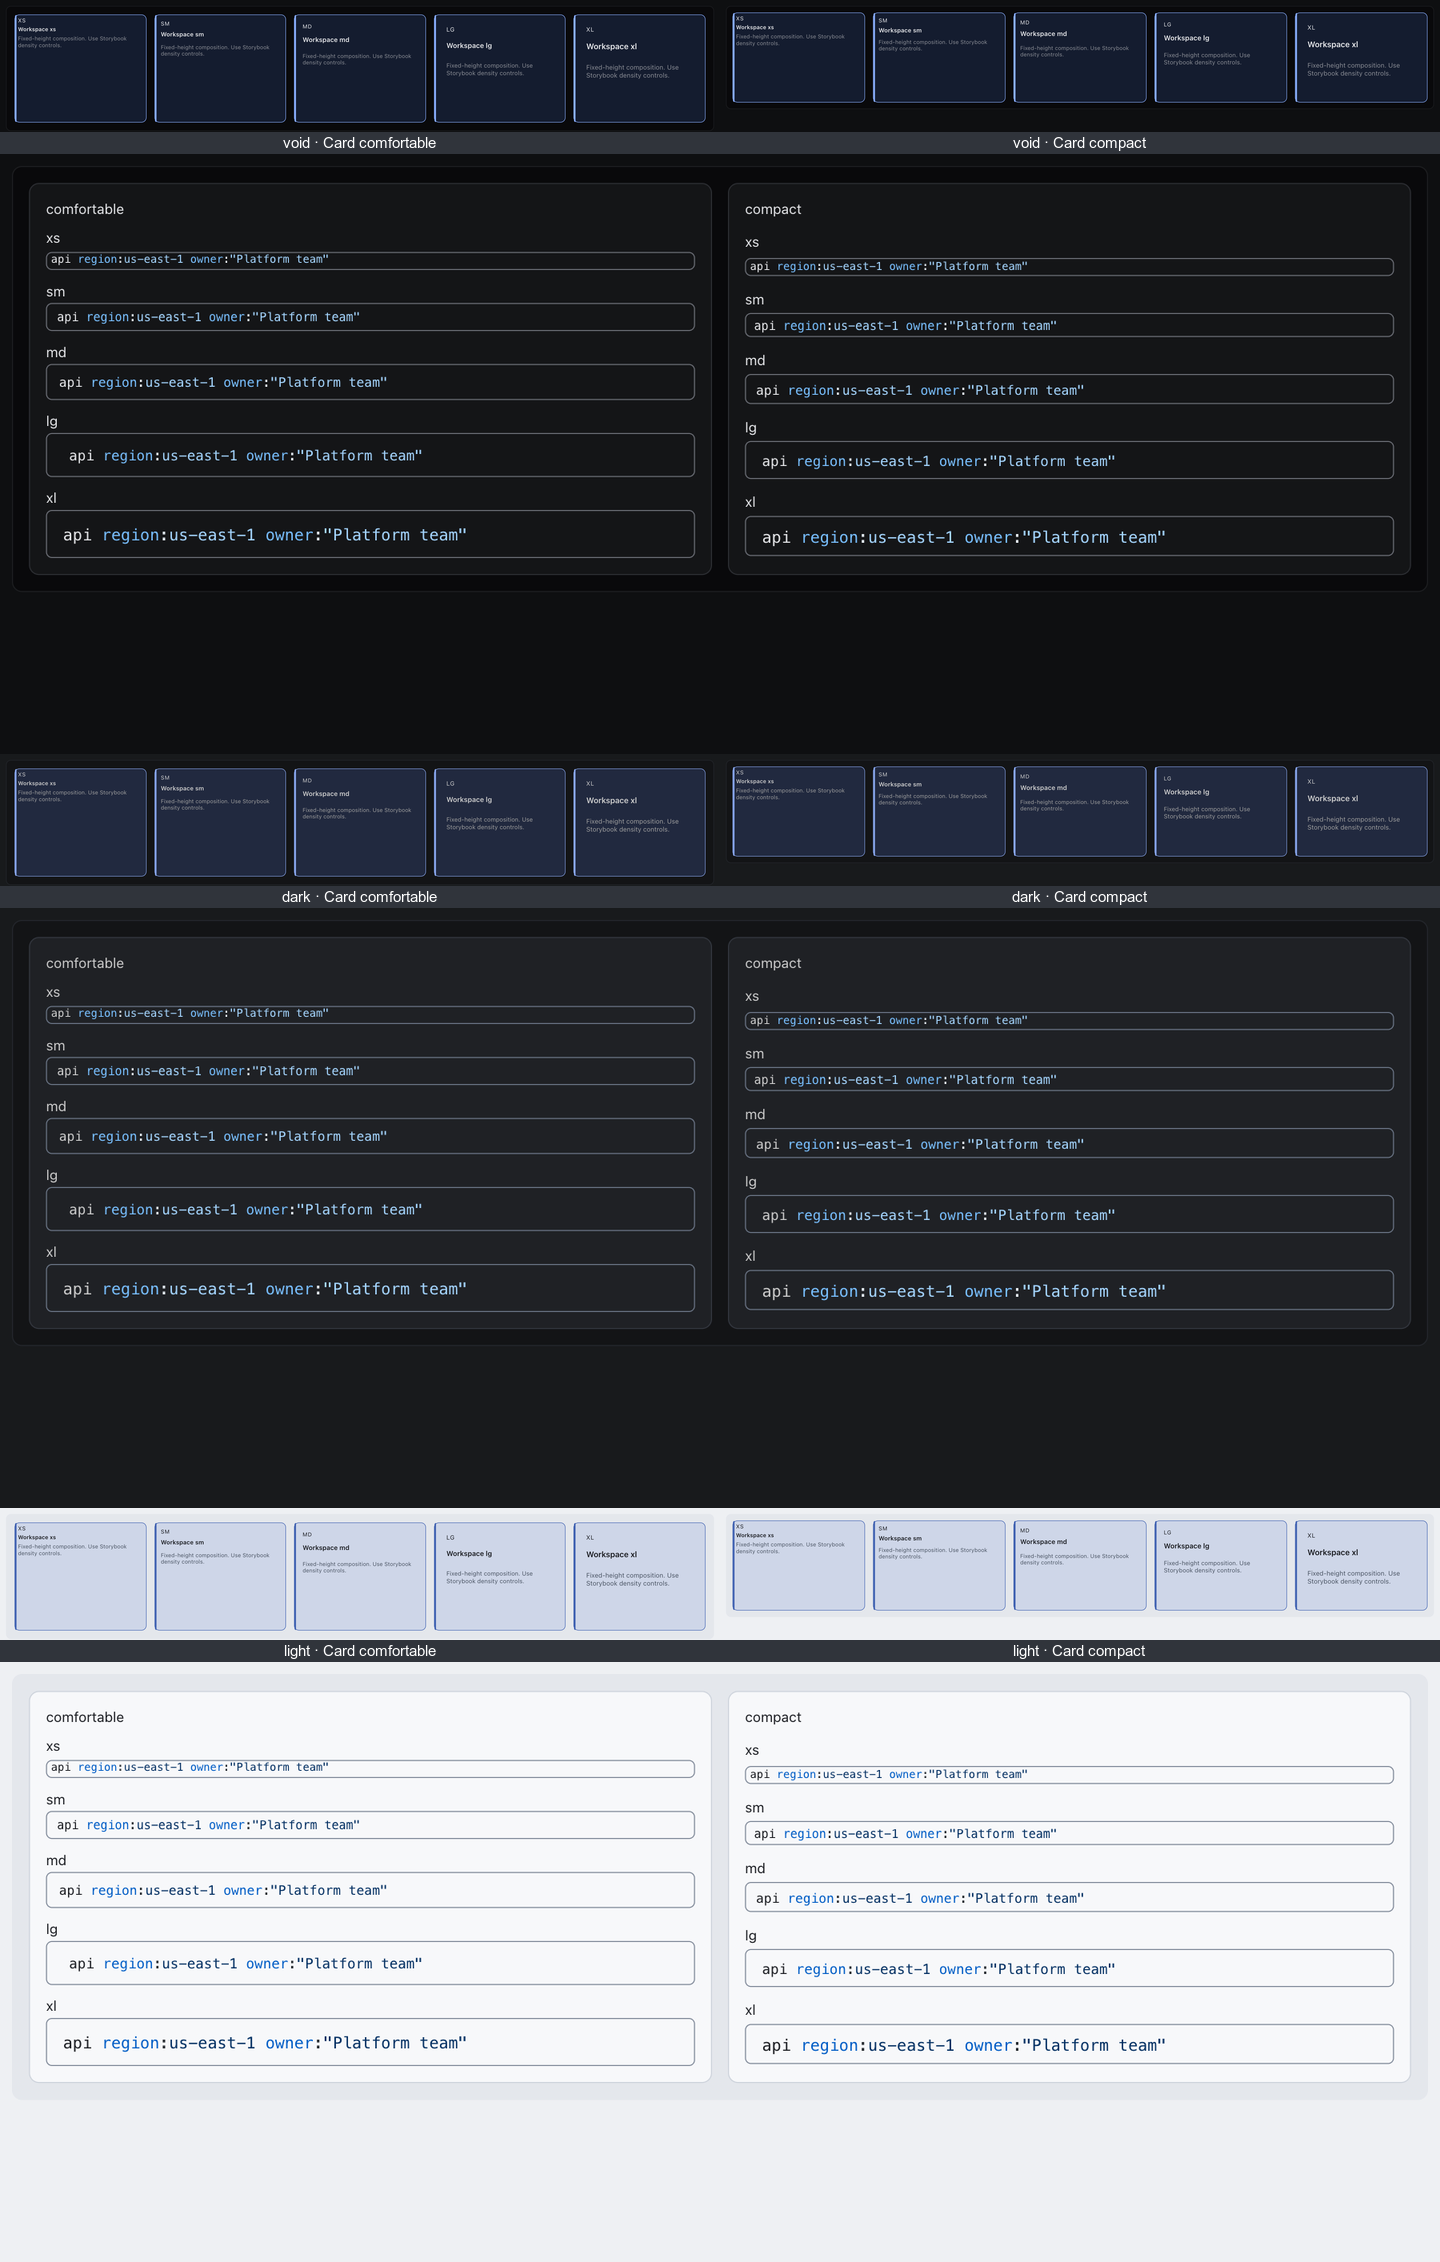
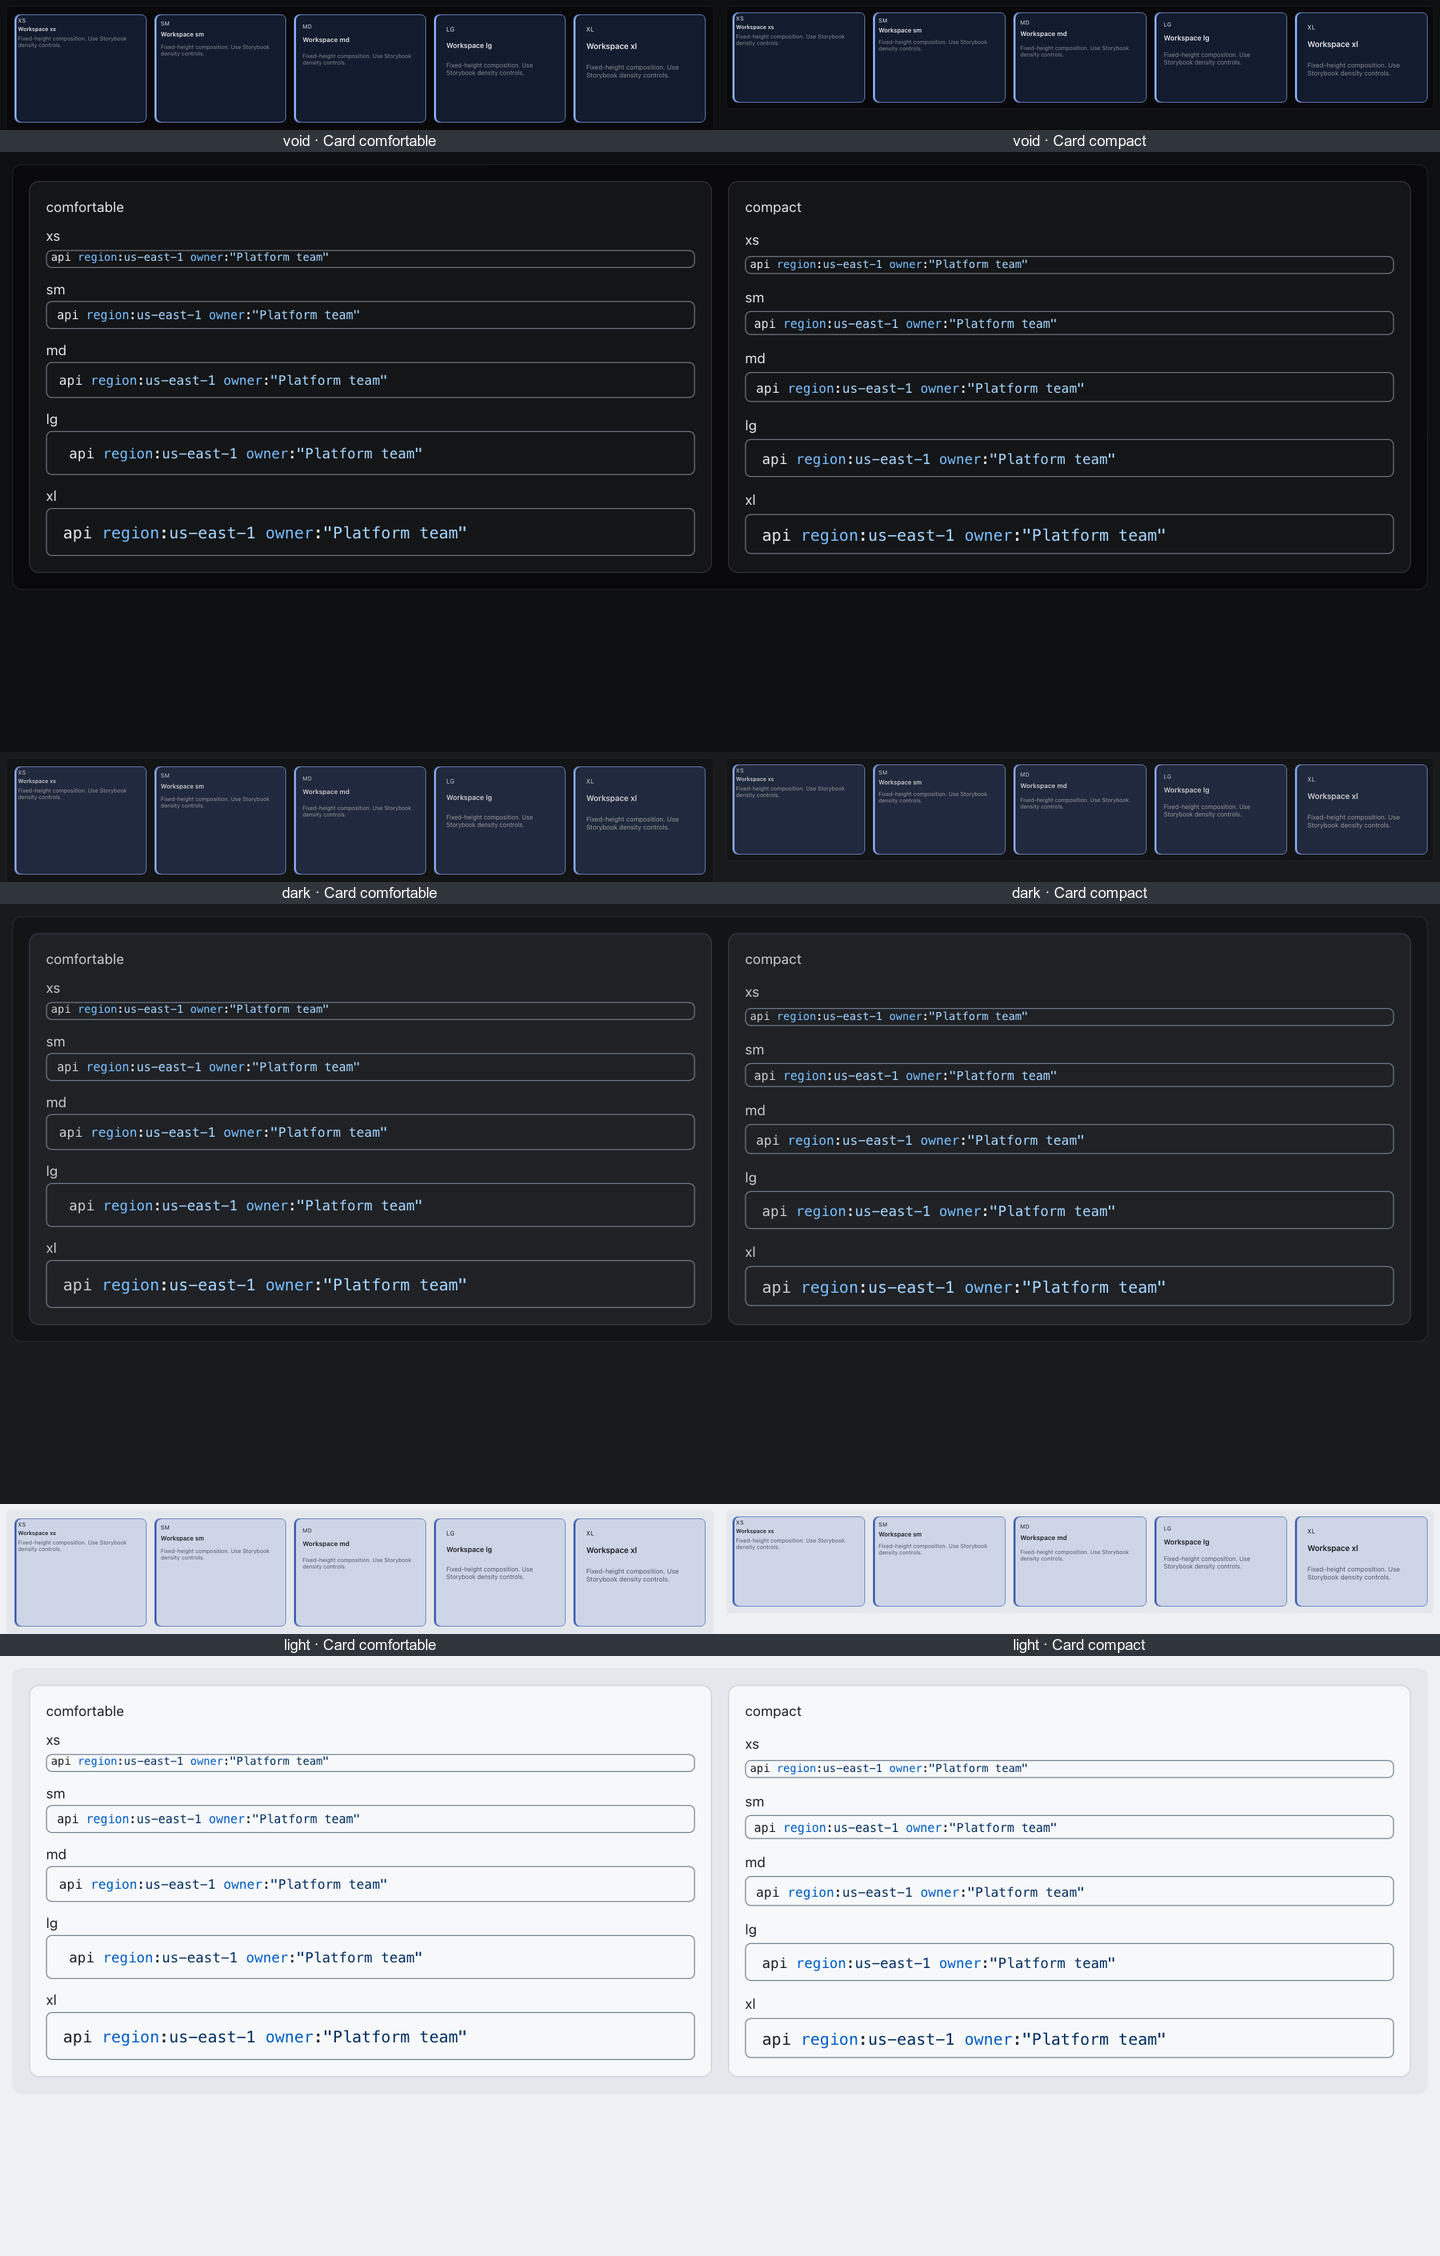
fix(card): curve selection highlight with card corners

diff --git a/packages/base-ui/src/components/card/Card.module.css b/packages/base-ui/src/components/card/Card.module.css
@@ -261,15 +261,18 @@
 .Root[data-ov-interactive='true']::before {
   content: '';
   position: absolute;
-  inset-block: 0;
-  inset-inline-start: 0;
-  inline-size: var(--ov-size-card-selection-rail);
-  border-start-start-radius: inherit;
-  border-end-start-radius: inherit;
-  background-color: transparent;
+  --_ov-card-rail-offset: var(--ov-size-card-selection-rail);
+
+  inset: 0;
+  border-radius: inherit;
+  box-shadow: inset var(--_ov-card-rail-offset) 0 transparent;
   pointer-events: none;
   z-index: 3;
-  transition: background-color var(--ov-duration-panel) var(--ov-ease-standard);
+  transition: box-shadow var(--ov-duration-panel) var(--ov-ease-standard);
+}
+
+.Root[data-ov-interactive='true']:dir(rtl)::before {
+  --_ov-card-rail-offset: calc(-1 * var(--ov-size-card-selection-rail));
 }
 
 .Root[data-ov-interactive='true']:where(:not([data-ov-disabled='true']):not(:has(.ActionArea[data-ov-disabled='true'])):hover) {
@@ -283,7 +286,7 @@
 }
 
 .Root[data-ov-interactive='true'][data-ov-selected='true']::before {
-  background-color: var(--ov-color-card-selected-border);
+  box-shadow: inset var(--_ov-card-rail-offset) 0 var(--ov-color-card-selected-border);
 }
 
 .Root[data-ov-disabled='true'],

diff --git a/docs/keyed-search-and-interactive-cards.md b/docs/keyed-search-and-interactive-cards.md
@@ -94,7 +94,7 @@ Use native `Card.ActionArea as="a"` for navigation or `as="button"` for actions.
 
 Root `disabled` disables primary ActionAreas. Sibling actions remain caller-controlled, allowing settings or recovery actions for an unavailable item. Native buttons use native disabled behavior; disabled anchors suppress navigation and leave the tab order. A disabled card is not a selection state.
 
-The selected surface and leading rail do not change content geometry. The rail uses the logical inline-start edge. Hover, selected and focus are separate: keyboard focus adds a ring without removing the selected rail. Existing motion preferences and `prefers-reduced-motion` disable transitions.
+The selected surface and leading rail do not change content geometry. The rail uses an inset shadow on the logical inline-start edge and inherits the card's full corner radius, so its ends curve smoothly into the outline rather than forming a square vertical strip. Hover, selected and focus are separate: keyboard focus adds a ring without removing the selected rail. Existing motion preferences and `prefers-reduced-motion` disable transitions.
 
 ### Theme contract
 

diff --git a/docs/roadmap-progress/cluster-explorer-components.md b/docs/roadmap-progress/cluster-explorer-components.md
@@ -53,6 +53,10 @@ Every one of the 115 High finding snippets already exists in the branch's starti
 
 ### Review fixes
 
+- Rounded-rail revision: replaced the narrow pseudo-element strip with a full-radius inset highlight matching the approved mock. Verified all 180 native component/theme/size/density combinations again; all 29 Card tests passed. Browser assertions now require the rail's radius to match the card's nonzero radius. RTL mirrors the inset offset from 3px to -3px without changing geometry.
+
+![Rounded selected rail](evidence/cluster-explorer/card-rounded-rail.png)
+
 - Filtering a manually scrolled suggestion list could leave the active option offscreen. Reproduced with native wheel/type input; the active row was above the popup. Updating the effect dependency restores it into view after filtering.
 - Holding Space on the existing div ActionArea could scroll the page. Repeated activation keys now prevent scrolling without repeating activation.
 - Rapid focus movement between searches exposed the exiting popup's listbox to accessibility queries. Exiting listboxes are now aria-hidden; only the focused search's suggestions remain exposed.
